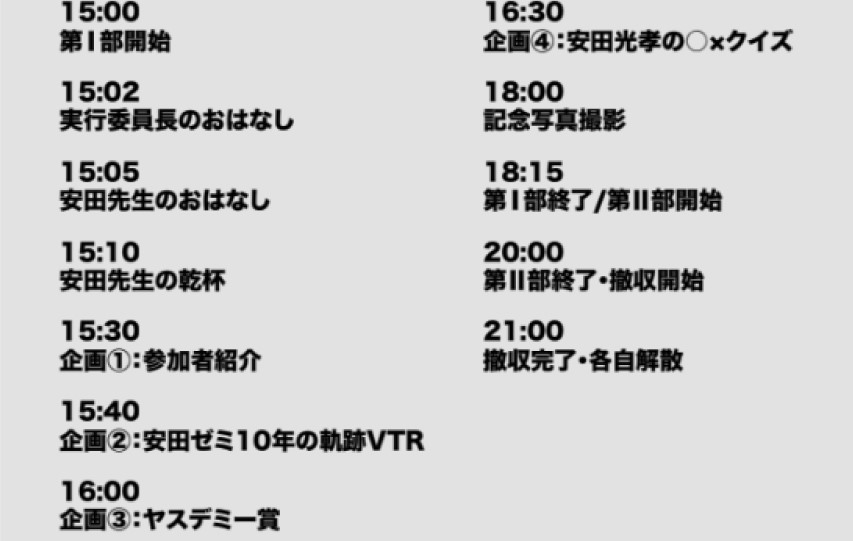
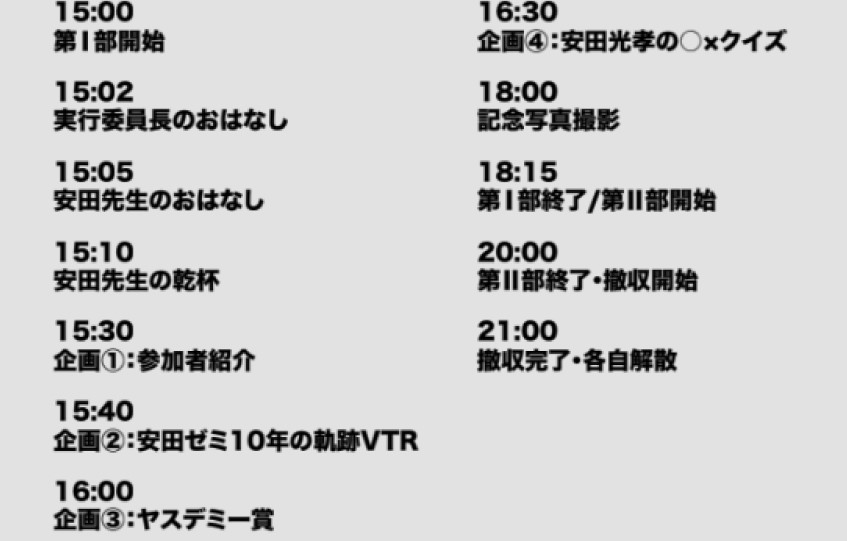
update

diff --git a/index.html b/index.html
@@ -113,8 +113,53 @@
         <p class="sub_tit">PRPGRAM</p>
         <h2 class="section_tit">プログラム</h2>
 
-        <img src="./img/program.jpg" alt="">
+        <!-- <img src="./img/program.jpg" alt=""> -->
 
+        <div class="program_wp">
+          <div class="program_wp_left">
+            <p>
+              15:00<br>
+              第I部開始<br>
+              <br>
+              15:02<br>
+              実行部長のおはなし<br>
+              <br>
+              15:05<br>
+              安田先生のおはなし<br>
+              <br>
+              15:10<br>
+              安田先生の乾杯<br>
+              <br>
+              15:30<br>
+              企画①：参加者紹介<br>
+              <br>
+              15:40<br>
+              企画②：安田ゼミ10年の軌跡VTR<br>
+              <br>
+              16:00<br>
+              企画③：ヤスデミー賞
+            </p>
+          </div>
+
+          <div class="program_wp_right">
+            <p>
+              16:30<br>
+              企画④：安田光孝の〇✕クイズ<br>
+              <br>
+              18:00<br>
+              記念撮影<br>
+              <br>
+              18:15<br>
+              第I部終了/第II部開始<br>
+              <br>
+              20:00<br>
+              第II部終了・撤収作業<br>
+              <br>
+              21:00<br>
+              撤収完了・各自解散
+            </p>
+          </div>
+        </div>
       </section>
 
       <section id="cost" class="cost">
@@ -137,17 +182,19 @@
         <h2 class="section_tit">アクセス・概要</h2>
 
         <div class="access_text">
-          <p>　　　　　　場所：　北海道情報大学のeDCタワー10階</p>
-          <br>
-          <p>　　　　　　日付：　2024/11/3(Sun)　※翌日祝日です！</p>
-          <br>
-          <p>　　　　　　時間：　1部　13:00~16:00 学内 途中参加可</p>
-          <br>
-          <p>　　　　　　　　　　2部　18:00~20:00 札幌市内の飲食店</p>
-          <br>
-          <p>申し込みフォーム：　<a href="">https://x.gd/Nilri</a></p>
-          <br>
-          <p>　　　　　　備考：　Zoom参加あります！</p>
+          <p>
+            　　　　　　場所：　北海道情報大学のeDCタワー10階<br>
+            <br>
+            　　　　　　日付：　2024/11/3(Sun)　※翌日祝日です！<br>
+            <br>
+            　　　　　　時間：　1部　13:00~16:00 学内 途中参加可<br>
+            <br>
+            　　　　　　　　　　2部　18:00~20:00 札幌市内の飲食店<br>
+            <br>
+            申し込みフォーム：　<a href="">https://x.gd/Nilri　</a><br>
+            <br>
+            　　　　　　備考：　Zoom参加あります！　　　　　　　　
+          </p>
         </div>
 
         <iframe class="map" src="https://www.google.com/maps/embed?pb=!1m18!1m12!1m3!1d2914.2253635034313!2d141.5354951122089!3d43.07875717101469!2m3!1f0!2f0!3f0!3m2!1i1024!2i768!4f13.1!3m3!1m2!1s0x5f0b2d77badbb7e3%3A0xc2ebb8ab4e5a040!2z44CSMDY5LTA4MzIg5YyX5rW36YGT5rGf5Yil5biC6KW_6YeO5bmM77yV77yZ4oiS77ySIEVkY-OCv-ODr-ODvA!5e0!3m2!1sja!2sjp!4v1723363490559!5m2!1sja!2sjp" allowfullscreen loading="lazy" referrerpolicy="no-referrer-when-downgrade"></iframe>

diff --git a/css/style.css b/css/style.css
@@ -120,6 +120,20 @@ body {
   width: 90%;
 }
 
+.program_wp {
+  display: flex;
+  justify-content: center;
+  gap: 5vw;
+  width: 80%;
+  max-width: 1000px;
+  margin: 5vw auto 0;
+  padding: 5vw;
+  text-align: left;
+  font-weight: bold;
+  background-color: #E2E2E2;
+  line-height: 1.5;
+}
+
 /* COST */
 .cost {
   margin-top: 10vw;
@@ -145,12 +159,18 @@ body {
 }
 
 .access_text {
-  width: 40vw;
+  width: 50%;
+  min-width: 340px;
   margin: 5vw auto 0;
-  text-align: left;
+  text-align: center;
   font-weight: bold;
-  font-size: 1.4vw;
+  font-size: clamp(12px, 1.5vw, 21px);
   line-height: 1.5;
+}
+
+.access_text p {
+  text-align: left;
+  margin: 0 auto;
 }
 
 .map {
